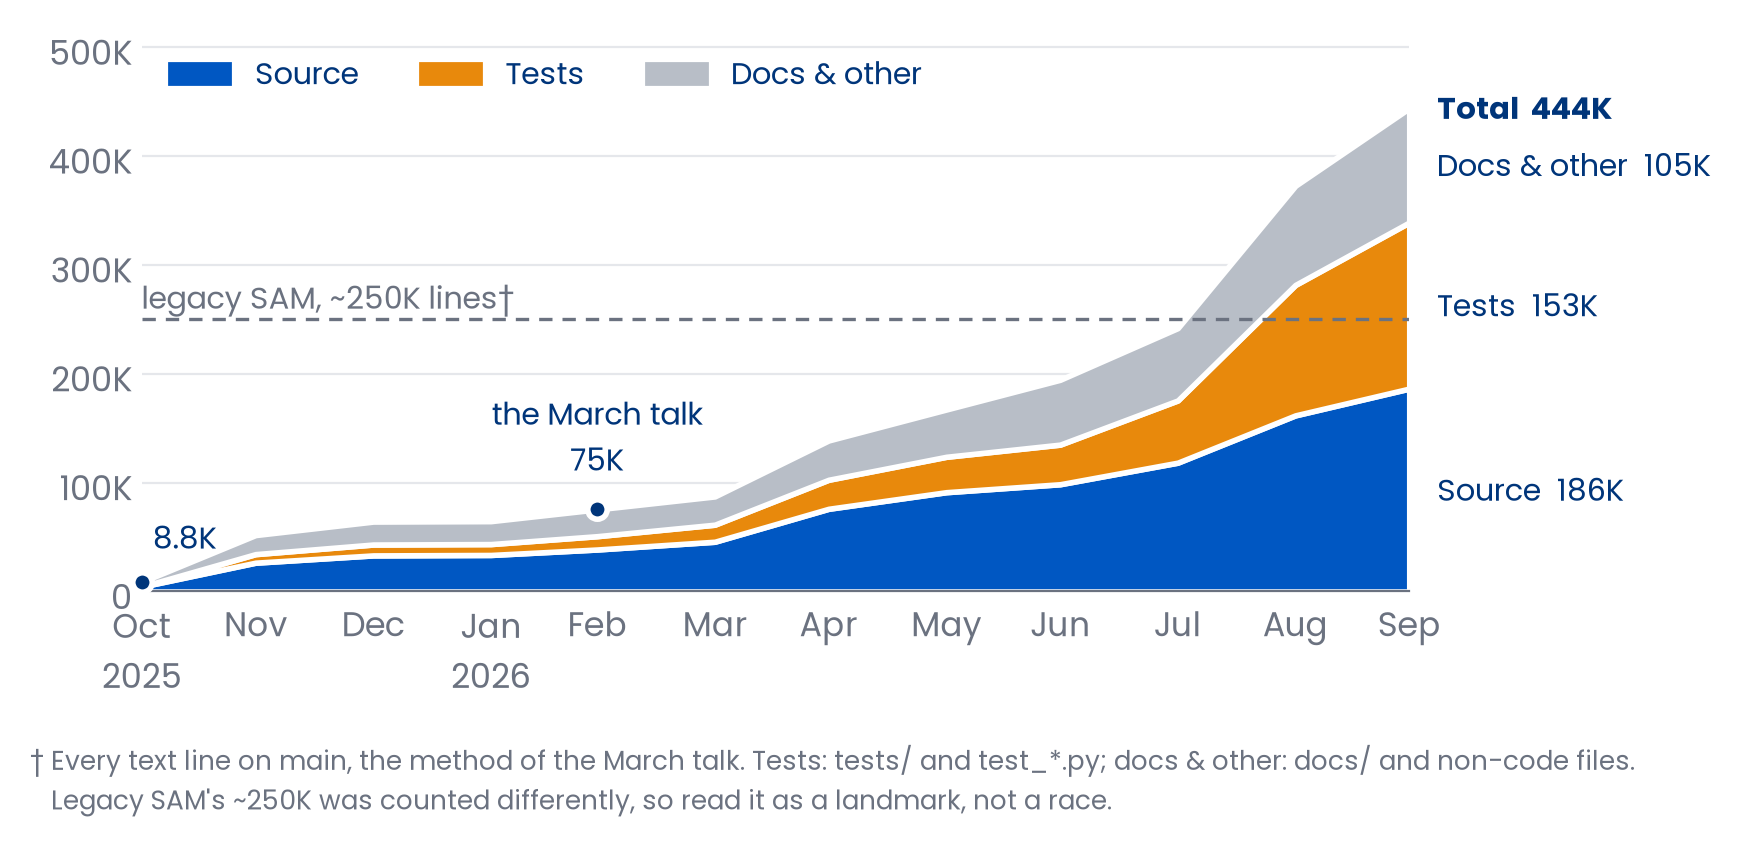
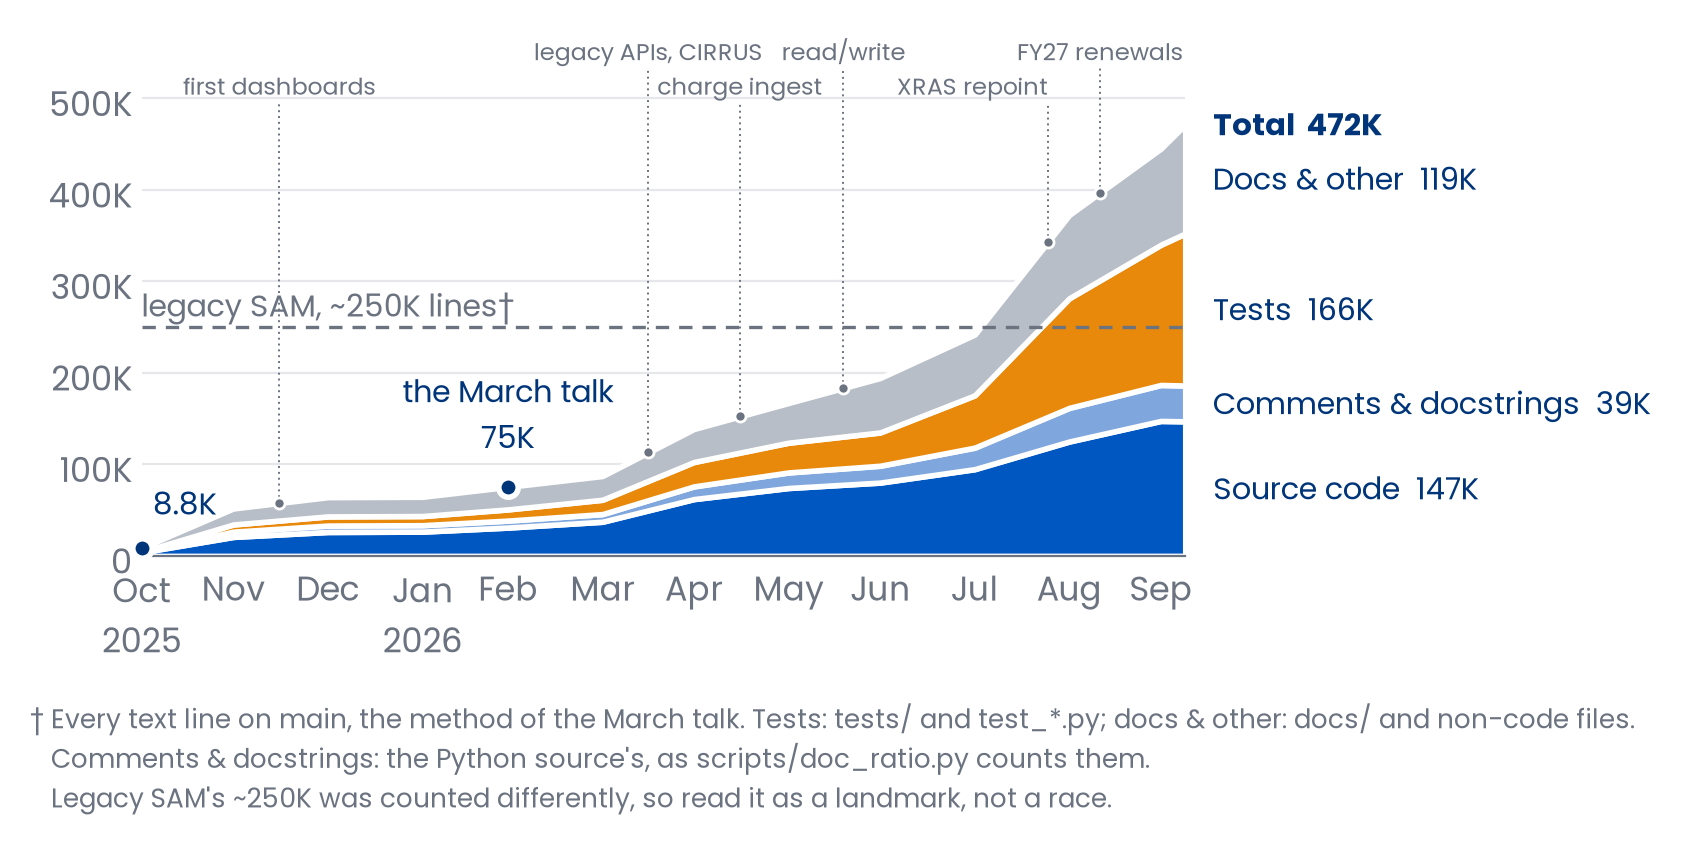
Decks: refresh stale variables; the progression chart splits source and marks milestones
Variables (_variables.yml), re-measured 2026-10-08:
- tests.collected 9,296 -> 11,071 (pytest --collect-only; docs/TESTING.md is stale too)
- size: lines 444K -> 472K, python 254K -> 262K, tests 153K -> 166K, source 186K;
  new source_code 147K and source_docs 39K; prs_merged 645 -> 728
- peers.huq_tests 920 -> 930
- rechecked, unchanged: dashboards, API modules, CLIs, tasks, CI workflows

The progression chart (Part 1):
- source_docs.py counts the source's Python comment and docstring lines per
  revision (scripts/doc_ratio.py's rule); refresh_data.sh records it as a
  column, and the chart draws Source as code plus a lighter comments band.
- The deck's milestones (first dashboards, legacy APIs/CIRRUS, charge
  ingest, read/write, XRAS repoint, FY27 renewals) as small muted labels in a
  row along the top, dotted to the total line; the legend, which repeated the
  direct labels, is gone.
- The series runs to today; a final point days after the last month-end gets
  no tick label (it collided with "Sep").

### Test Results

`make qa DECKS="1-overview A-peers"`: 20 and 12 slides in every format, no
failures.

Claude-Session: https://claude.ai/code/session_0167ztGBCpdbfA3Pk3vVLE31

diff --git a/docs/presentations/samuel/plot_progression.py b/docs/presentations/samuel/plot_progression.py
@@ -4,6 +4,7 @@ from datetime import date
 from pathlib import Path
 
 import matplotlib
+import numpy as np
 matplotlib.use("Agg")
 import matplotlib.pyplot as plt
 from matplotlib import font_manager
@@ -15,14 +16,18 @@ for ttf in FONTS.glob("*.ttf"):
     font_manager.fontManager.addfont(str(ttf))
 
 INK, MUTED, GRID = "#00357A", "#6B7280", "#E5E7EB"
-# Bottom to top. Blue/orange validated (dataviz validate_palette.js); gray is the "other" fold.
-BANDS = [("source_lines", "Source", "#0057C2"),
+# Bottom to top. Blue/orange validated (dataviz validate_palette.js); gray is the "other" fold;
+# source splits into its code and its (Python) comments and docstrings, a lighter blue.
+BANDS = [("code_lines", "Source code", "#0057C2"),
+         ("source_doc_lines", "Comments & docstrings", "#7FA7DE"),
          ("test_lines", "Tests", "#E8890C"),
          ("other_lines", "Docs & other", "#B8BEC7")]
 LEGACY_LOC = 250_000          # "roughly 250K lines", Confessions of a Vibe Coder, slide 3
 TALK = date(2026, 3, 11)      # the March talk the series picks up from
 
 rows = list(csv.DictReader(open(HERE / "data/loc_progression.tsv"), delimiter="\t"))
+for r in rows:
+    r["code_lines"] = int(r["source_lines"]) - int(r["source_doc_lines"])
 x = [date.fromisoformat(r["date"]) for r in rows]
 series = [[int(r[col]) for r in rows] for col, _, _ in BANDS]
 total = [int(r["lines"]) for r in rows]
@@ -61,8 +66,26 @@ talk = max(i for i, d in enumerate(x) if d <= TALK)
 mark(0, k(total[0]), 4, 12, ha="left")
 mark(talk, f"the March talk\n{k(total[talk])}", 0, 14)
 
+# The deck's other milestones (Part 1, "How we got here"): small and muted, in a row along the
+# top, each dotted down to its point on the total. Two heights, set per label (row 0 high, 1 low)
+# with its alignment, so no dotted line runs through a neighbor's label.
+MILESTONES = [(date(2025, 12, 15), "first dashboards", 1, "center"),
+              (date(2026, 4, 15), "legacy APIs, CIRRUS", 0, "center"),
+              (date(2026, 5, 15), "charge ingest", 1, "center"),
+              (date(2026, 6, 18), "read/write", 0, "center"),
+              (date(2026, 8, 24), "XRAS repoint", 1, "right"),
+              (date(2026, 9, 10), "FY27 renewals", 0, "center")]
+ROWS = (1.13, 1.05)                                   # label heights, × the final total
+xs = [d.toordinal() for d in x]
+for d, label, row, ha in MILESTONES:
+    y, top = np.interp(d.toordinal(), xs, total), ROWS[row] * total[-1]
+    ax.plot([d, d], [y, top], color=MUTED, linewidth=0.7, linestyle=(0, (1, 2)), zorder=2)
+    ax.plot(d, y, "o", color=MUTED, markersize=4, markeredgecolor="white",
+            markeredgewidth=1, zorder=3)
+    ax.text(d, top, label, ha=ha, va="bottom", color=MUTED, fontsize=8.5)
+
 ax.yaxis.set_major_formatter(FuncFormatter(lambda v, _: f"{v/1e3:,.0f}K" if v else "0"))
-ax.set_ylim(0, max(total) * 1.15)
+ax.set_ylim(0, max(total) * 1.22)
 ax.set_xlim(x[0], x[last])
 for side in ("top", "right", "left"):
     ax.spines[side].set_visible(False)
@@ -70,17 +93,17 @@ ax.spines["bottom"].set_color(MUTED)
 ax.tick_params(colors=MUTED, length=0, labelsize=12)
 ax.grid(axis="y", color=GRID, linewidth=0.8)
 ax.set_axisbelow(True)
-# One tick per data point (each a month-end), the year shown where it changes.
-ax.set_xticks(x, [f"{d:%b}\n{d:%Y}" if i == 0 or d.month == 1 else f"{d:%b}"
+# One tick per data point (each a month-end), the year shown where it changes. Today's
+# point, when it sits days after the last month-end, gets no label: the two would collide.
+ax.set_xticks(x, ["" if i and (d - x[i - 1]).days < 20 else
+                  f"{d:%b}\n{d:%Y}" if i == 0 or d.month == 1 else f"{d:%b}"
                   for i, d in enumerate(x)])
-handles = [plt.Rectangle((0, 0), 1, 1, color=c) for _, _, c in BANDS]
-ax.legend(handles, [lbl for _, lbl, _ in BANDS], loc="upper left", ncol=3, frameon=False,
-          fontsize=11, labelcolor=INK, bbox_to_anchor=(0, 1.02))
 
 FOOTNOTE = ("† Every text line on main, the method of the March talk. Tests: tests/ and test_*.py; "
             "docs & other: docs/ and non-code files.\n"
+            "   Comments & docstrings: the Python source's, as scripts/doc_ratio.py counts them.\n"
             "   Legacy SAM's ~250K was counted differently, so read it as a landmark, not a race.")
-fig.tight_layout(rect=(0, 0.11, 0.87, 1))            # right margin holds the direct labels
+fig.tight_layout(rect=(0, 0.15, 0.84, 1))            # right margin holds the direct labels
 fig.text(0.01, 0.015, FOOTNOTE, color=MUTED, fontsize=9.5, ha="left", va="bottom")
 fig.savefig(HERE / "images/loc_progression.png", transparent=False, facecolor="white",
             bbox_inches="tight", pad_inches=0.15)   # no lopsided right margin

diff --git a/docs/presentations/samuel/source_docs.py b/docs/presentations/samuel/source_docs.py
@@ -1,0 +1,36 @@
+"""Comment and docstring lines in the source of one revision (refresh_data.sh's LOC split).
+
+    python3 source_docs.py <repo> <rev>
+
+"Source" is refresh_data.sh's rule: code files outside tests and docs/. Only Python is split;
+a doc line is a docstring line or a comment-only line, as scripts/doc_ratio.py counts them.
+"""
+import io
+import re
+import subprocess
+import sys
+import tarfile
+import tempfile
+from pathlib import Path
+
+repo, rev = sys.argv[1], sys.argv[2]
+sys.path.insert(0, str(Path(repo) / "scripts"))
+from doc_ratio import classify  # noqa: E402
+
+TEST = re.compile(r"(^|/)tests?/|(^|/)(test_[^/]*|conftest)\.py$")
+CODE = re.compile(r"\.(py|html|js|css|sh|lua|j2|jinja|ipynb)$")
+
+with tempfile.TemporaryDirectory() as tmp:
+    archive = subprocess.run(["git", "-C", repo, "archive", rev], check=True,
+                             capture_output=True).stdout
+    with tarfile.open(fileobj=io.BytesIO(archive)) as tar:
+        tar.extractall(tmp, filter="data")
+    doc = 0
+    for p in Path(tmp).rglob("*.py"):
+        rel = p.relative_to(tmp).as_posix()
+        if TEST.search(rel) or rel.startswith("docs/") or not CODE.search(rel):
+            continue
+        counts = classify(p)
+        if counts:
+            doc += counts[2] + counts[3]
+print(doc)
